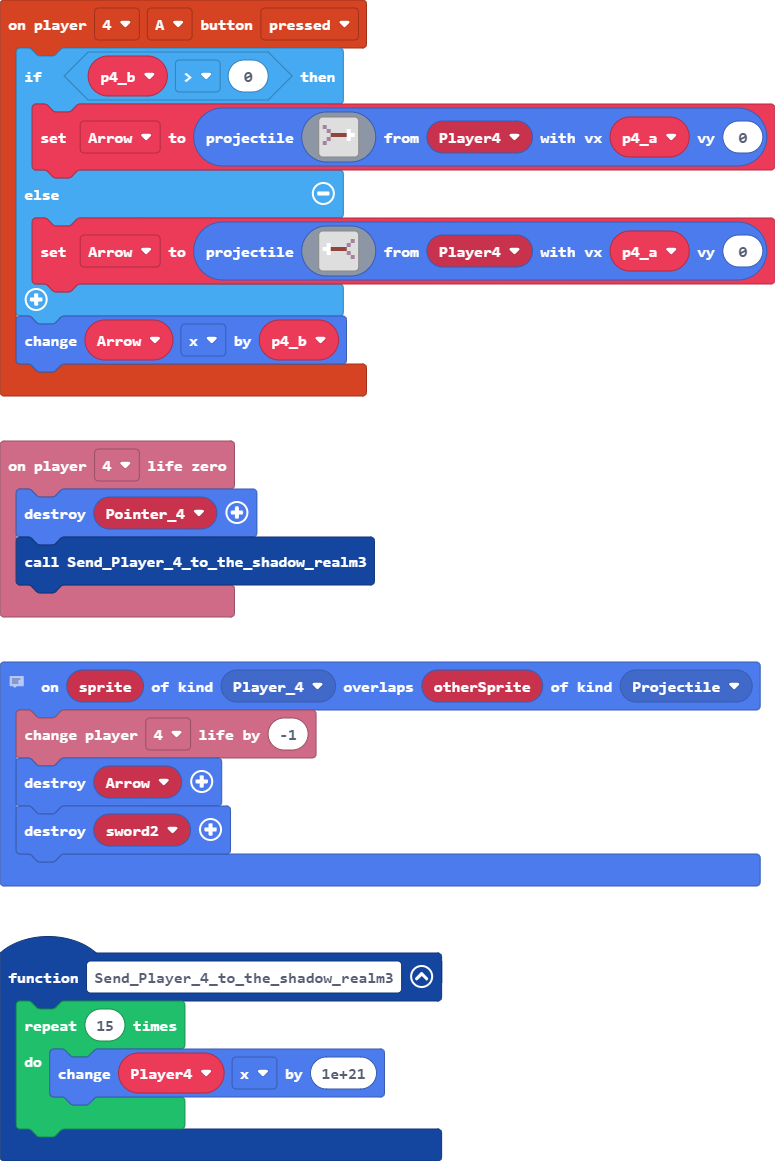
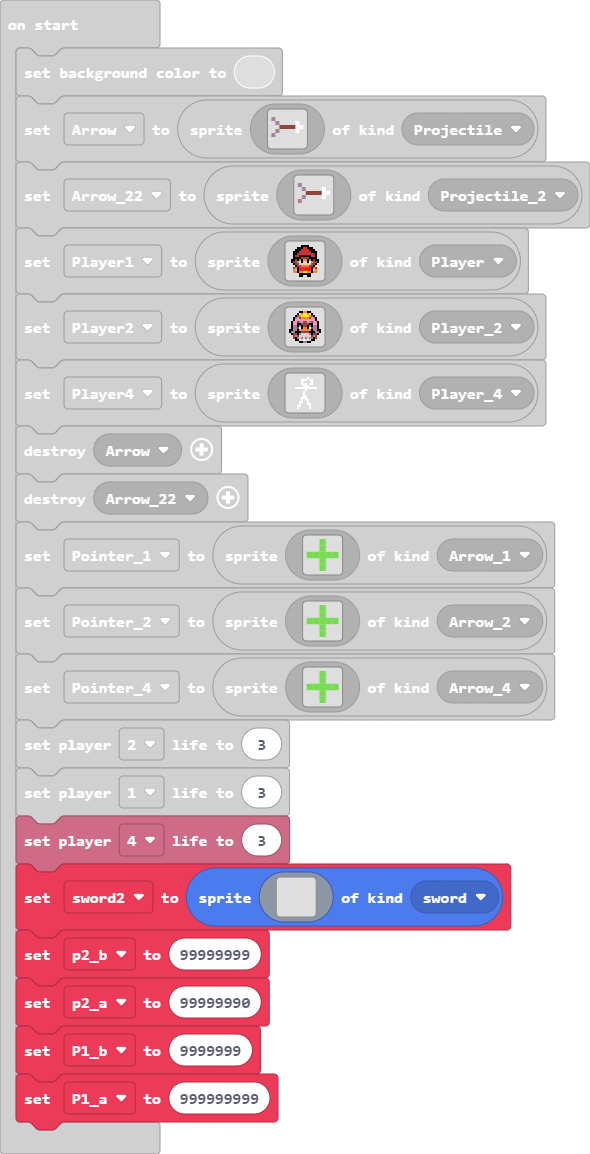
Update main.blocks, main.ts

diff --git a/main.ts b/main.ts
@@ -321,6 +321,7 @@ Pointer_4 = sprites.create(img`
     `, SpriteKind.Arrow_4)
 info.player2.setLife(3)
 info.player1.setLife(3)
+info.player4.setLife(3)
 sword2 = sprites.create(img`
     . . . . . . . . . . . . . . . . 
     . . . . . . . . . . . . . . . . 
